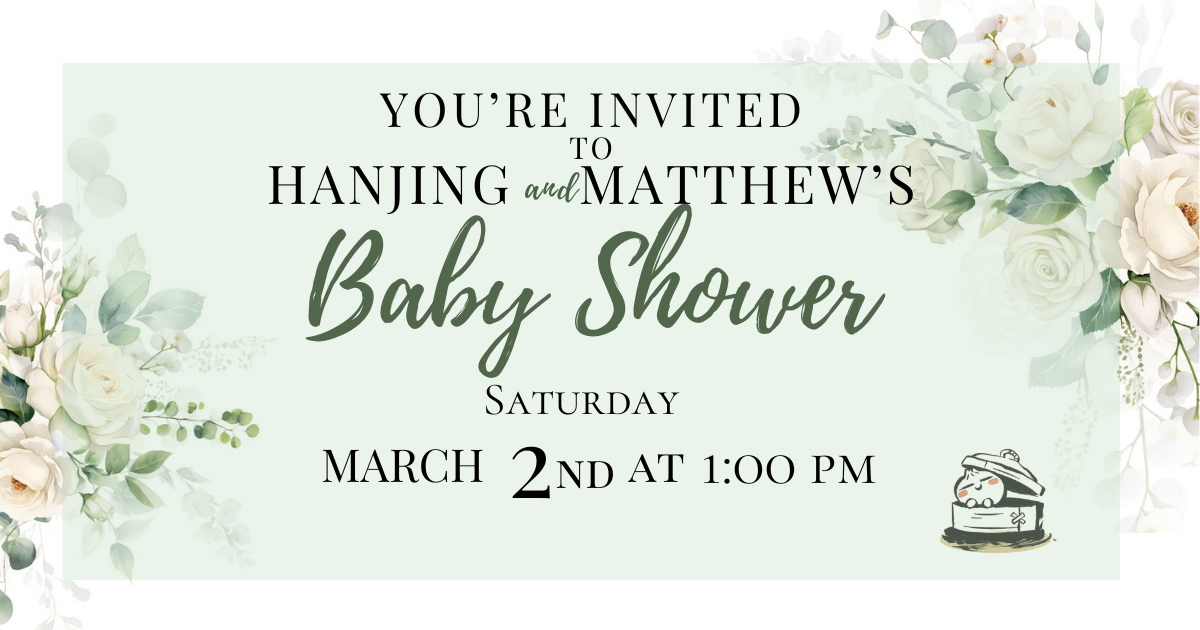
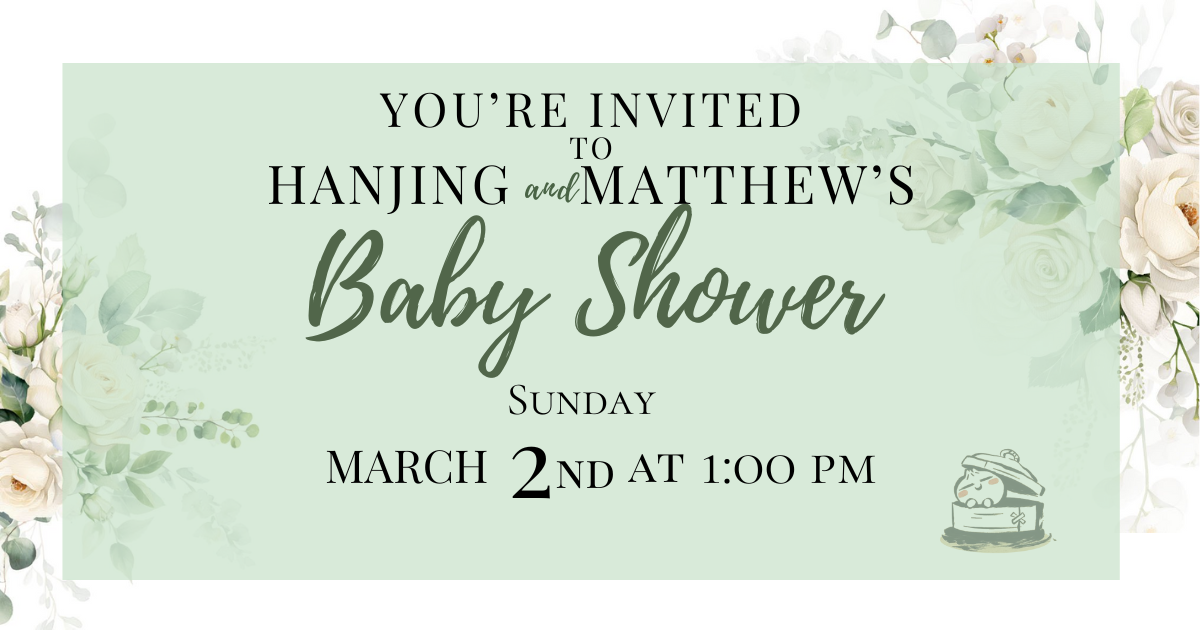
image change

diff --git a/style.css b/style.css
@@ -54,6 +54,7 @@
     right: 0;
     z-index: -1;
     width: 50%;
+    opacity: 0.4;
 }
 
 .home_side_flowers {
@@ -62,18 +63,19 @@
     bottom: 0;
     z-index: -1;
     width: 35%;
+    opacity: 0.4;
 }
 
 .home_bao {
     position: absolute;
     z-index: -1;
-    opacity: 0.5;
+    opacity: 0.2;
     right: 31%;
     width: 15%;
 }
 
 .home_baby_shower {
-    color: #c5e0c7;
+    color: #bbd4bd;
     text-align: center;
     font-size: clamp(3.5rem, 22vw, 11rem);
     line-height: 0.9;
@@ -115,13 +117,13 @@
     align-items: center;
     justify-content: center;
     margin: 10px 0;
-    color: #d6ccc2;
+    color: #bbb2a8;
   }
   
 .line {
     flex: 1;
     height: 1px;
-    background-color: #d6ccc2
+    background-color: #bbb2a8
   }
   
   .center-text {

diff --git a/index.html b/index.html
@@ -48,7 +48,7 @@
                     <span class="line"></span>
                     </div>
                     <div class="cormorant_font main-text">
-                        <span class="home_day">Saturday</span> 
+                        <span class="home_day">Sunday</span> 
                         <span class="first_pipe">|</span>
                         <span class="playfair two">2</span> 
                         <span class="playfair nd">nd</span> 
